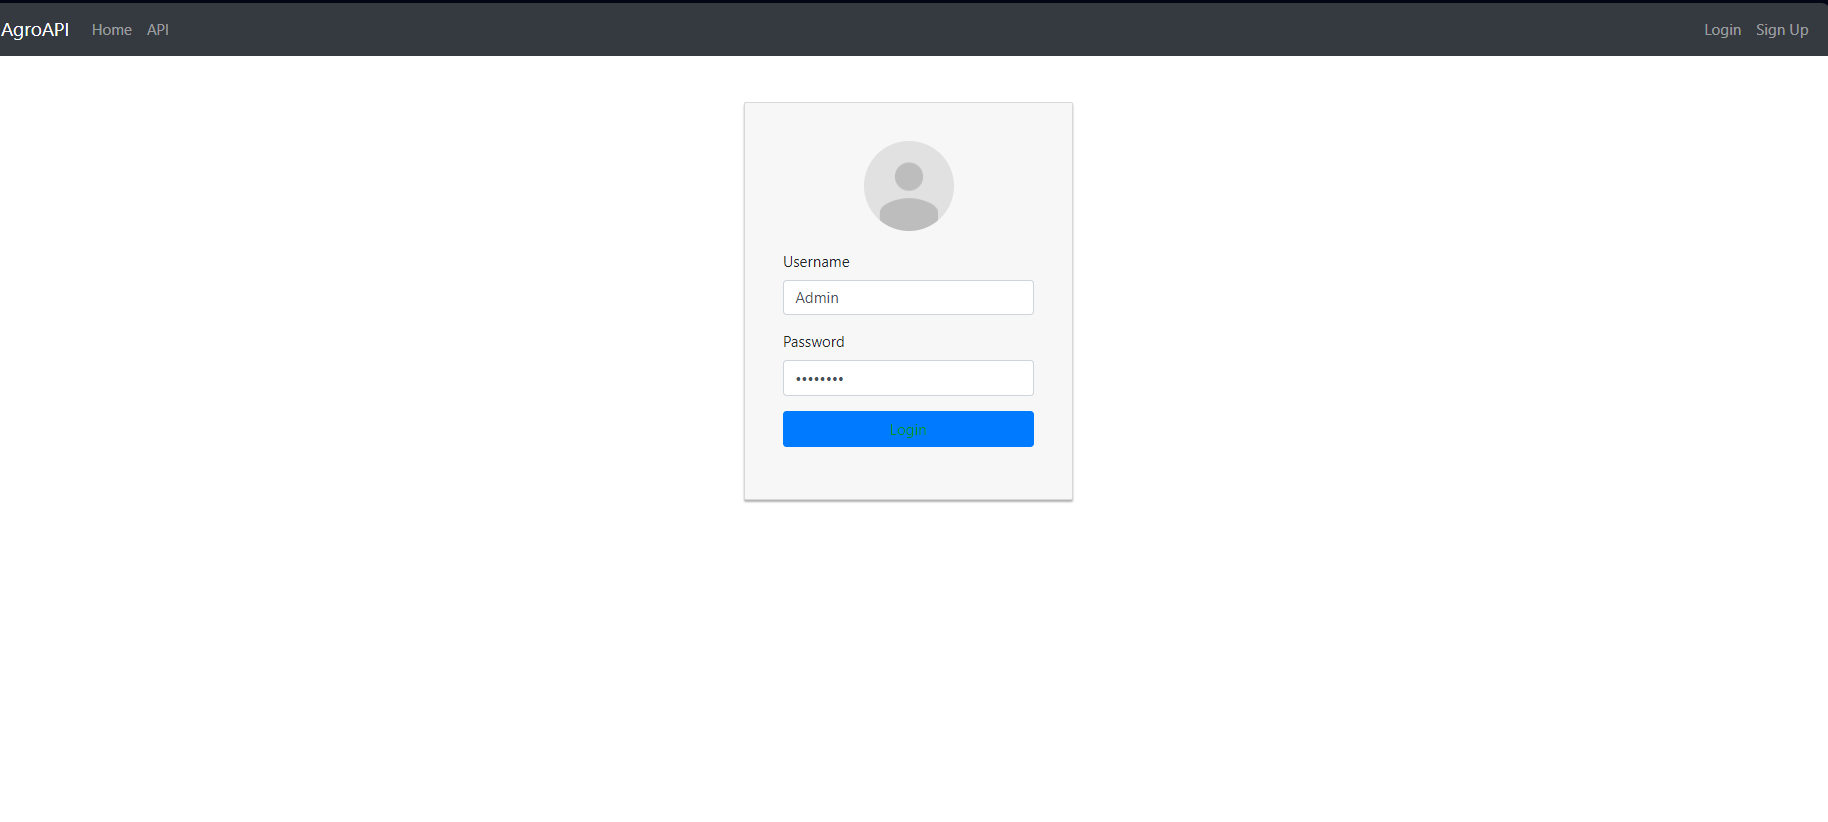
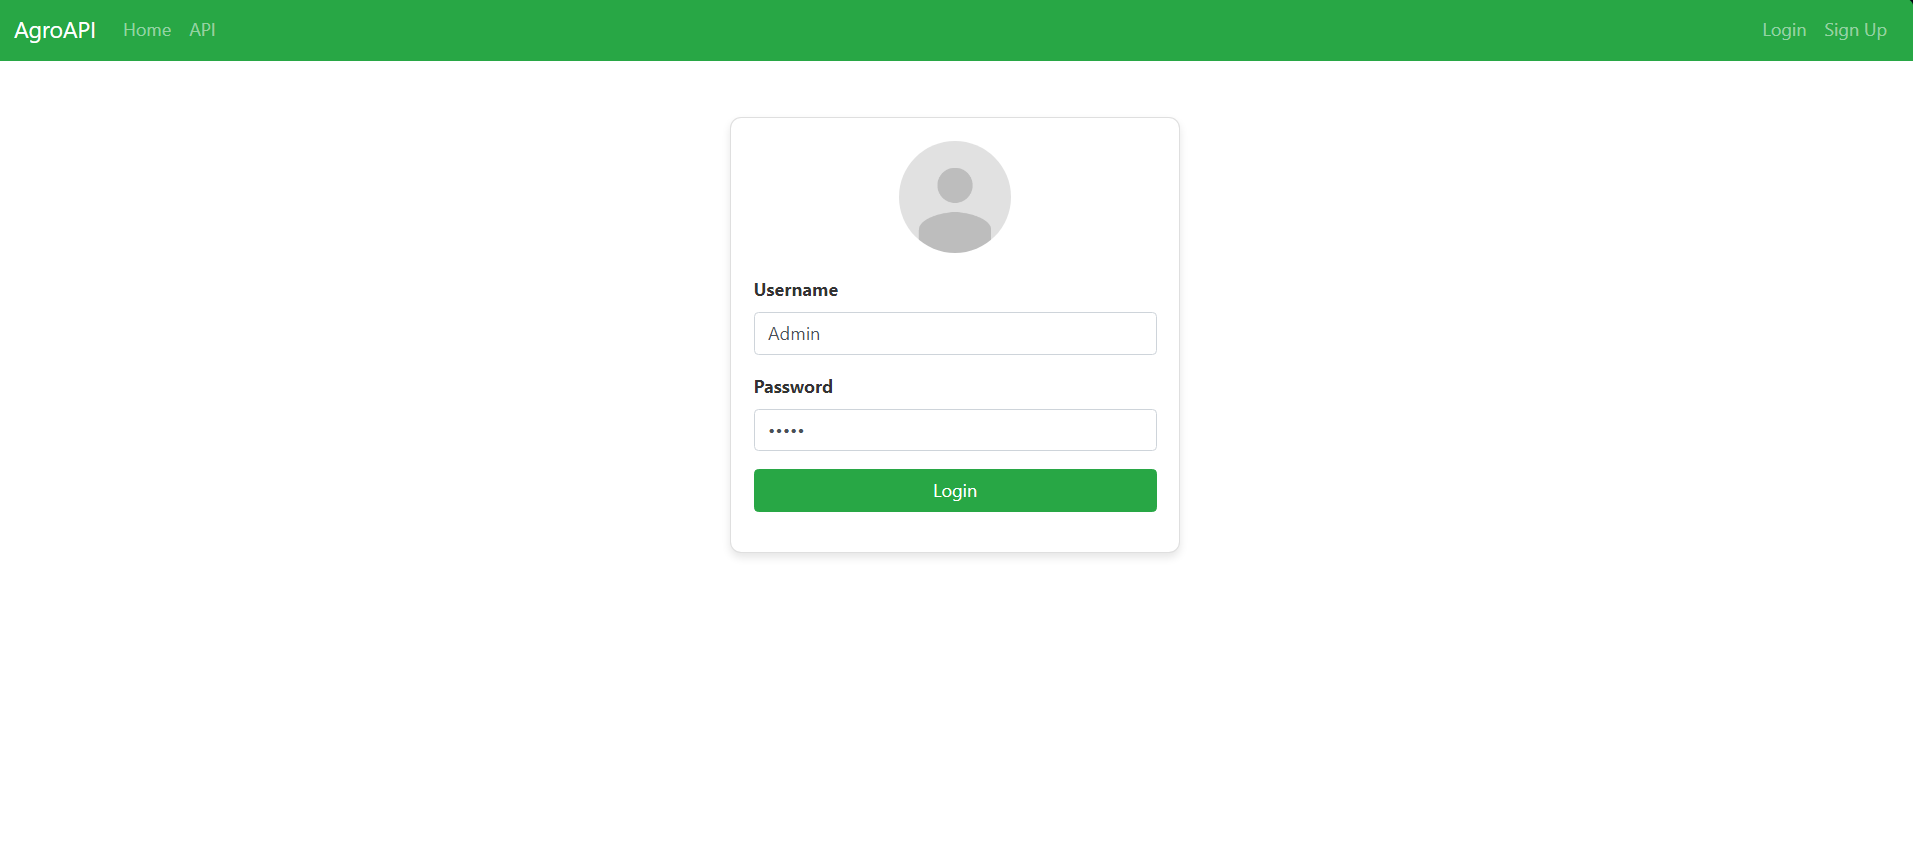
update readme file

diff --git a/client/src/components/register.component.js b/client/src/components/register.component.js
@@ -1,12 +1,12 @@
-import React, { Component } from "react";
-import Form from "react-validation/build/form";
-import Input from "react-validation/build/input";
-import CheckButton from "react-validation/build/button";
-import { isEmail } from "validator";
+import React, { Component } from 'react';
+import Form from 'react-validation/build/form';
+import Input from 'react-validation/build/input';
+import CheckButton from 'react-validation/build/button';
+import { isEmail } from 'validator';
 
-import AuthService from "../services/auth.service";
+import AuthService from '../services/auth.service';
 
-const required = value => {
+const required = (value) => {
   if (!value) {
     return (
       <div className="alert alert-danger" role="alert">
@@ -16,7 +16,7 @@ const required = value => {
   }
 };
 
-const email = value => {
+const email = (value) => {
   if (!isEmail(value)) {
     return (
       <div className="alert alert-danger" role="alert">
@@ -26,7 +26,7 @@ const email = value => {
   }
 };
 
-const vusername = value => {
+const vusername = (value) => {
   if (value.length < 3 || value.length > 20) {
     return (
       <div className="alert alert-danger" role="alert">
@@ -36,7 +36,7 @@ const vusername = value => {
   }
 };
 
-const vpassword = value => {
+const vpassword = (value) => {
   if (value.length < 6 || value.length > 40) {
     return (
       <div className="alert alert-danger" role="alert">
@@ -55,29 +55,29 @@ export default class Register extends Component {
     this.onChangePassword = this.onChangePassword.bind(this);
 
     this.state = {
-      username: "",
-      email: "",
-      password: "",
+      username: '',
+      email: '',
+      password: '',
       successful: false,
-      message: ""
+      message: '',
     };
   }
 
   onChangeUsername(e) {
     this.setState({
-      username: e.target.value
+      username: e.target.value,
     });
   }
 
   onChangeEmail(e) {
     this.setState({
-      email: e.target.value
+      email: e.target.value,
     });
   }
 
   onChangePassword(e) {
     this.setState({
-      password: e.target.value
+      password: e.target.value,
     });
   }
 
@@ -85,8 +85,8 @@ export default class Register extends Component {
     e.preventDefault();
 
     this.setState({
-      message: "",
-      successful: false
+      message: '',
+      successful: false,
     });
 
     this.form.validateAll();
@@ -97,13 +97,13 @@ export default class Register extends Component {
         this.state.email,
         this.state.password
       ).then(
-        response => {
+        (response) => {
           this.setState({
             message: response.data.message,
-            successful: true
+            successful: true,
           });
         },
-        error => {
+        (error) => {
           const resMessage =
             (error.response &&
               error.response.data &&
@@ -113,7 +113,7 @@ export default class Register extends Component {
 
           this.setState({
             successful: false,
-            message: resMessage
+            message: resMessage,
           });
         }
       );
@@ -132,7 +132,7 @@ export default class Register extends Component {
 
           <Form
             onSubmit={this.handleRegister}
-            ref={c => {
+            ref={(c) => {
               this.form = c;
             }}
           >
@@ -175,7 +175,7 @@ export default class Register extends Component {
                 </div>
 
                 <div className="form-group">
-                  <button className="btn btn-primary btn-block">Sign Up</button>
+                  <button className="btn btn-success btn-block">Sign Up</button>
                 </div>
               </div>
             )}
@@ -185,8 +185,8 @@ export default class Register extends Component {
                 <div
                   className={
                     this.state.successful
-                      ? "alert alert-success"
-                      : "alert alert-danger"
+                      ? 'alert alert-success'
+                      : 'alert alert-danger'
                   }
                   role="alert"
                 >
@@ -195,8 +195,8 @@ export default class Register extends Component {
               </div>
             )}
             <CheckButton
-              style={{ display: "none" }}
-              ref={c => {
+              style={{ display: 'none' }}
+              ref={(c) => {
                 this.checkBtn = c;
               }}
             />

diff --git a/client/src/components/login.component.js b/client/src/components/login.component.js
@@ -1,13 +1,13 @@
-import React, { Component } from "react";
-import Form from "react-validation/build/form";
-import Input from "react-validation/build/input";
-import CheckButton from "react-validation/build/button";
+import React, { Component } from 'react';
+import Form from 'react-validation/build/form';
+import Input from 'react-validation/build/input';
+import CheckButton from 'react-validation/build/button';
 
-import AuthService from "../services/auth.service";
+import AuthService from '../services/auth.service';
 
 import { withRouter } from '../common/with-router';
 
-const required = value => {
+const required = (value) => {
   if (!value) {
     return (
       <div className="alert alert-danger" role="alert">
@@ -25,22 +25,22 @@ class Login extends Component {
     this.onChangePassword = this.onChangePassword.bind(this);
 
     this.state = {
-      username: "",
-      password: "",
+      username: '',
+      password: '',
       loading: false,
-      message: ""
+      message: '',
     };
   }
 
   onChangeUsername(e) {
     this.setState({
-      username: e.target.value
+      username: e.target.value,
     });
   }
 
   onChangePassword(e) {
     this.setState({
-      password: e.target.value
+      password: e.target.value,
     });
   }
 
@@ -48,8 +48,8 @@ class Login extends Component {
     e.preventDefault();
 
     this.setState({
-      message: "",
-      loading: true
+      message: '',
+      loading: true,
     });
 
     this.form.validateAll();
@@ -57,10 +57,10 @@ class Login extends Component {
     if (this.checkBtn.context._errors.length === 0) {
       AuthService.login(this.state.username, this.state.password).then(
         () => {
-          this.props.router.navigate("/profile");
+          this.props.router.navigate('/profile');
           window.location.reload();
         },
-        error => {
+        (error) => {
           const resMessage =
             (error.response &&
               error.response.data &&
@@ -70,13 +70,13 @@ class Login extends Component {
 
           this.setState({
             loading: false,
-            message: resMessage
+            message: resMessage,
           });
         }
       );
     } else {
       this.setState({
-        loading: false
+        loading: false,
       });
     }
   }
@@ -93,7 +93,7 @@ class Login extends Component {
 
           <Form
             onSubmit={this.handleLogin}
-            ref={c => {
+            ref={(c) => {
               this.form = c;
             }}
           >
@@ -123,7 +123,7 @@ class Login extends Component {
 
             <div className="form-group">
               <button
-                className="btn btn-primary btn-block"
+                className="btn btn-success btn-block"
                 disabled={this.state.loading}
               >
                 {this.state.loading && (
@@ -141,8 +141,8 @@ class Login extends Component {
               </div>
             )}
             <CheckButton
-              style={{ display: "none" }}
-              ref={c => {
+              style={{ display: 'none' }}
+              ref={(c) => {
                 this.checkBtn = c;
               }}
             />
